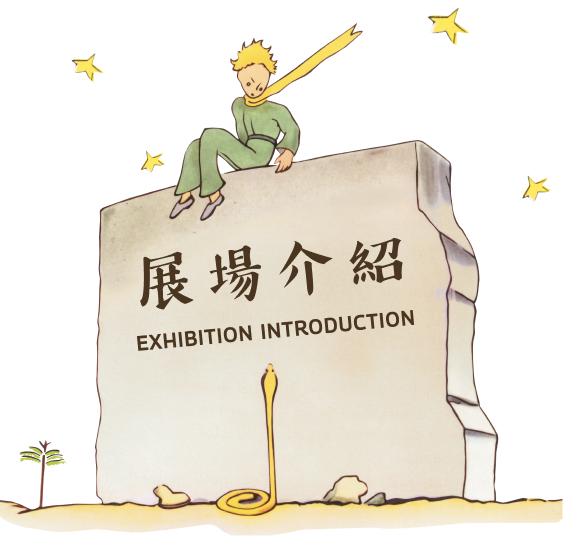
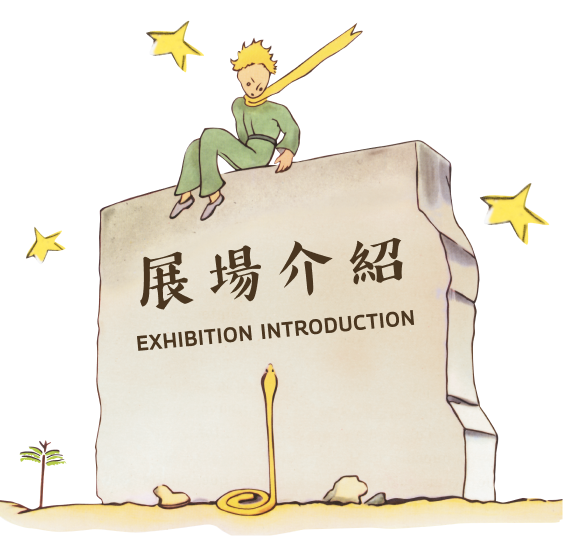
animate

diff --git a/pages/index.vue b/pages/index.vue
@@ -25,12 +25,18 @@
 
       <!-- 小王子的藝想世界 -->
       <boxContent class="index-prince" v-lazy:background-image="require('@/assets/img/index/prince-star.png')">
-        <div class="index-prince-bg"></div>
+        
         <div class="index-prince-man-box">
-          <img class="index-prince-man" v-lazy="require('@/assets/img/index/prince-blue.png')" alt="star">
+          <img class="index-prince-moon" v-lazy="require('@/assets/img/index/prince-moon.png')" alt="moon">
         </div>
-
+        
+        
+        <div class="index-prince-bg"></div>
+        <img class="index-prince-man" v-lazy="require('@/assets/img/index/prince-bird.png')" alt="bird">
         <img class="index-prince-title" v-lazy="require('@/assets/img/index/title-anniversary.png')" alt="anniversary">
+        <img class="index-prince-star1" v-lazy="require('@/assets/img/desktop/star.png')" alt="star">
+        <img class="index-prince-star2" v-lazy="require('@/assets/img/desktop/star.png')" alt="star">
+        <img class="index-prince-star3" v-lazy="require('@/assets/img/desktop/star.png')" alt="star">
         <div>
           <img class="index-prince-exhi" v-lazy="require('@/assets/img/index/prince-exhibition.png')" alt="exhibition">
         </div>
@@ -60,8 +66,15 @@
 
       <!-- 故事翻頁 -->
       <boxContent class="index-book">
-        <img class="index-book-bg" v-lazy="require('@/assets/img/index/book-bg.png')" alt="bg">
-        <img class="index-book-title" v-lazy="require('@/assets/img/index/title-prince.png')" alt="prince">
+        <img class="index-book-title"
+          data-aos="fade-in" data-aos-delay="100" data-aos-duration="800" data-aos-easing="ease-in-sine" v-lazy="require('@/assets/img/index/title-prince.png')"
+          alt="prince"
+        >
+        <div class="index-book-desc">
+          #尋找 找到你心中的小王子<br>
+          " All grown-ups were children first. (But few of them remember it.) "<br>
+          問題不在於長大，在於你忘了自己曾是個小孩。
+        </div>
         <!-- 缺文字 img -->
 
         <div class="index-book-rotate" v-lazy:background-image="require('@/assets/img/index/book-filp.png')">
@@ -99,7 +112,10 @@
       <boxContent class="index-art">
         <div class="index-art-head-box">
           <img class="index-art-head" v-lazy="require('@/assets/img/index/title-artist.png')" alt="artist">
-          <img class="index-art-intro" v-lazy="require('@/assets/img/index/art-intro.png')" alt="intro">
+          <img class="index-art-intro"
+            data-aos="fade-left" data-aos-delay="1200" data-aos-duration="800" data-aos-easing="ease-in-sine"
+            v-lazy="require('@/assets/img/index/art-intro.png')" alt="intro"
+          >
         </div>
         <div class="index-art-text">邀集國內外藝術家以全新視角詮釋，從視覺藝術到驚喜引導的故事人聲、量身定做的展場原聲音樂環繞，透過奇幻氛圍的劇場空間與沈浸式互動投影聯手，和小王子一起來趟暖心療癒的星球旅行吧！</div>
         <div class="index-art-rotate">
@@ -205,8 +221,14 @@
 
     <!-- 購票資訊 -->
       <boxContent class="index-ticket">
-        <img class="index-ticket-title" v-lazy="require('@/assets/img/index/title-buy.png')" alt="info">
-        <img class="index-ticket-airplane" v-lazy="require('@/assets/img/index/ticket-airplane.png')" alt="airplane">
+        <img class="index-ticket-title"
+          data-aos="fade-right" data-aos-delay="1200" data-aos-duration="800" data-aos-easing="ease-in-sine"
+          v-lazy="require('@/assets/img/index/title-buy.png')" alt="info"
+        >
+        <img
+          data-aos="fade-down-left" data-aos-delay="1200" data-aos-duration="800" data-aos-easing="ease-in-sine"
+          class="index-ticket-airplane" v-lazy="require('@/assets/img/index/ticket-airplane.png')" alt="airplane"
+        >
         <div class="index-ticket-sub">
           購票須知：<br>
           為能達成控管入場人流與最佳觀展品質，將於「開展前一個月」開訪提供參觀時段預約連結。於入場時配合防疫措施，完成實聯制並進行消毒雙手及測量體溫（現場將備有消毒酒精），並且記得參觀時應全程佩戴口罩喔！
@@ -280,7 +302,10 @@
 
       <!-- 小王子商店 -->
       <boxContent class="index-store">
-        <img class="index-store-tree" v-lazy="require('@/assets/img/index/store-tree.png')" alt="tree">
+        <img class="index-store-tree"
+          data-aos="fade-in" data-aos-delay="1200" data-aos-duration="800" data-aos-easing="ease-in-sine"
+          v-lazy="require('@/assets/img/index/store-tree.png')" alt="tree"
+          >
         <img class="index-store-title" v-lazy="require('@/assets/img/index/title-store.png')" alt="store">
 
         <div class="index-store-tab-box">
@@ -314,39 +339,40 @@
 
         <!-- footer -->
         <div class="index-footer">
-          <div class="index-footer-box">
-            <div>
-              <div class="index-footer-text">主辦單位｜為美學有限公司</div>
-              <div class="index-footer-text">協同策展｜群眾自造股份有限公司</div>
-              <div class="index-footer-text">授權單位｜薩摩亞商羚邦亞洲有限公司</div>
-            </div>
-            <div>
-              <div class="index-footer-text">行銷團隊｜大宇宙情報股份有限公司</div>
-              <div class="index-footer-text">行銷顧問｜貝殼放大股份有限公司</div>
-              <div class="index-footer-text">商品開發｜可蘿國際股份有限公司</div>
+
+          <div class="index-footer-outer-box">
+            <div class="index-footer-box">
+              <div>
+                <div class="index-footer-text">主辦單位｜為美學有限公司</div>
+                <div class="index-footer-text">協同策展｜群眾自造股份有限公司</div>
+                <div class="index-footer-text">授權單位｜薩摩亞商羚邦亞洲有限公司</div>
+              </div>
+              <div>
+                <div class="index-footer-text">行銷團隊｜大宇宙情報股份有限公司</div>
+                <div class="index-footer-text">行銷顧問｜貝殼放大股份有限公司</div>
+                <div class="index-footer-text">商品開發｜可蘿國際股份有限公司</div>
+              </div>
             </div>
 
+            <div class="index-footer-social-box">
+              <a href="https://www.facebook.com/LePetitPrince.75tw" target="facebook">
+                <img class="index-footer-social" v-lazy="require('@/assets/img/index/social-fb.png')" alt="sponsor">
+              </a>
+              <a href="https://www.instagram.com/le_petit_prince75th_tw" target="_blank">
+                <img class="index-footer-social" v-lazy="require('@/assets/img/index/social-ig.png')" alt="instagram">
+              </a>
+              <a href="mailto:service@weiyunchang.com" target="_blank">
+                <img class="index-footer-social" v-lazy="require('@/assets/img/index/social-email.png')" alt="mail">
+              </a>
+            </div>
           </div>
 
-          <div class="index-footer-social-box">
-            <a href="https://www.facebook.com/LePetitPrince.75tw" target="facebook">
-              <img class="index-footer-social" v-lazy="require('@/assets/img/index/social-fb.png')" alt="sponsor">
-            </a>
-            <a href="https://www.instagram.com/le_petit_prince75th_tw" target="_blank">
-              <img class="index-footer-social" v-lazy="require('@/assets/img/index/social-ig.png')" alt="instagram">
-            </a>
-            <a href="mailto:service@weiyunchang.com" target="_blank">
-              <img class="index-footer-social" v-lazy="require('@/assets/img/index/social-email.png')" alt="mail">
-            </a>
-            
-            
-            
+          <div class="index-footer-copyright">
+            <img class="index-footer-copyright-img" v-lazy="require('@/assets/img/index/copyright.png')" alt="copyright">
           </div>
-
-          <div class="index-footer-copyright">copyright</div>
-
 
         </div>
+        
 
 
       </boxContent>
@@ -404,7 +430,7 @@ export default {
       swiperOptionArt: {
         slidesPerView: 1,
         initialSlide: 1,
-        spaceBetween: -168,
+        spaceBetween: -138,
         lazy: true,
         pagination: {
           el: '.swiper-pagination',
@@ -842,10 +868,27 @@ export default {
 
     &-man-box {
       text-align: right;
-      padding-top: 30px;
+      padding: 232px 0px 50px;
+    }
+
+    &-moon {
+      width: 50%;
+    }
+
+    &-bg {
+      position: absolute;
+      left: 0px;
+      top: 0px;
+      width: 100%;
+      height: 232px;
+      background: linear-gradient(179.79deg, #281717 0.18%, rgba(40, 23, 23, 0.51) 66.61%, rgba(40, 23, 23, 0) 99.82%);
+      z-index: 2;
     }
 
     &-man {
+      position: absolute;
+      left: 20px;
+      top: 0px;
       width: 80%;
     }
 
@@ -855,6 +898,31 @@ export default {
       top: 0px;
       width: 230px;
       cursor: pointer;
+      z-index: 3;
+    }
+
+    &-star1 {
+      position: absolute;
+      right: 34px;
+      top: 40px;
+      width: 40px;
+      z-index: 2;
+    }
+
+    &-star2 {
+      position: absolute;
+      right: 34px;
+      top: 180px;
+      width: 40px;
+      z-index: 2;
+    }
+
+    &-star3 {
+      position: absolute;
+      right: 184px;
+      top: 180px;
+      width: 40px;
+      z-index: 2;
     }
 
     &-exhi {
@@ -863,6 +931,7 @@ export default {
       top: 150px;
       width: 95px;
       transform: translateY(-20px);
+      z-index: 3;
     }
 
     &-box {
@@ -881,7 +950,7 @@ export default {
 
     &-intro2 {
       width: 80px;
-      margin: 10px 0px 0px 20px;
+      margin: 72px 0px 0px 0px;
       cursor: pointer;
     }
 
@@ -946,14 +1015,16 @@ export default {
   &-book {
     position: relative;
 
-    &-bg {
-      position: absolute;
-      width: 240px;
-    }
-
     &-title {
       width: calc(100% - 20px);
       margin: 0px 10px;
+    }
+
+    &-desc {
+      margin: 0px 35px 21px;
+      line-height: 1.5;
+      font-size: 13px;
+      color: white;
     }
 
     &-rotate {
@@ -1591,37 +1662,45 @@ export default {
   // footer
 
   &-footer {
-    padding: 23px 15px 46px;
+    padding: 25px 31px 10px;
     background-color: #E8E1D1;
 
-    &-box {
+    &-outer-box {
       display: flex;
       justify-content: space-between;
+      align-items: center;
+    }
+
+    &-box {
+
     }
 
     &-text {
-      margin: 0px 5px 11px;
-      line-height: 1.5;
+      margin: 0px 0px 11px;
       font-size: 12px;
       text-align: left;
       color: #4D4D4D;
     }
 
     &-social-box {
-      padding: 0px 10px;
+      display: flex;
+      flex-direction: column;
       text-align: left;
     }
 
     &-social {
-      height: 17px;
-      margin-right: 8px;
-      cursor: pointer;
+      height: 21px;
+      margin: 7px 0px;
     }
 
     &-copyright {
-      margin-top: 12px;
+      margin-top: 10px;
       font-size: 12px;
       color: #9B9B9B;
+    }
+
+    &-copyright-img {
+      width: calc(100% - 40px);
     }
   }
 
@@ -1631,7 +1710,9 @@ export default {
   &-side {
     position: fixed;
     bottom: 5vh;
-    right: 10px;
+    right: 15px;
+    transform: none;
+    z-index: 1;
 
     &-box {
       width: 110px;
@@ -1815,7 +1896,14 @@ export default {
         display: none;
       }
     }
+
+    &-side {
+      left: calc(50% + 110px);
+      transform: translateX(-50%);
+    }
   }
+
+  
 
 }
 

diff --git a/nuxt.config.js b/nuxt.config.js
@@ -17,9 +17,12 @@ export default {
     meta: [
       { charset: 'utf-8' },
       { name: 'viewport', content: 'width=device-width, initial-scale=1' },
-      // { hid: 'og:image' , property: 'og:image' , content: 'icon-single-logo.png'},
+      { hid: 'og:title'  , property: 'og:title'  , content: '小王子的藝想世界 75 周年特展'},
+      { hid: 'og:image' , property: 'og:image' , content: 'og-logo.jpg'},
       { hid: 'og:type' , property: 'og:type' , content: 'website'},
-      { hid: 'description', name: 'description', content: '邀請喜愛小王子的鐵粉以及新朋友們一同家人全新展覽體驗；不再只是「看」展覽，而是跟著小王子穿越75個年頭，回到相遇的原點，一起展開星球旅行！請戴上登機手環與準備好一台互動的智慧型手機，即將於12.29～2022.4.6，在台北華山1914文創園區西一西二館啟程出發！' }
+      // { hid: 'og:url' , property: 'og:url' , content: ''},
+      { hid: 'description', name: 'description', content: '尋找 找到你心中的小王子" All grown-ups were children first. (But few of them remember it.) "問題不在於長大，在於你忘了自己曾是個小孩。' },
+      { hid: 'og:description' , property: 'og:description' , content: '尋找 找到你心中的小王子" All grown-ups were children first. (But few of them remember it.) "問題不在於長大，在於你忘了自己曾是個小孩。。'},
     ],
     link: [
       { rel: 'icon', type: 'image/x-icon', href: 'favicon.ico' }

diff --git a/layouts/default.vue b/layouts/default.vue
@@ -24,7 +24,14 @@ export default {
     }
   },
   mounted () {
-
+    // 點開手機版輸入框時，要避免畫面滑動
+    let mo = function (e) { e.preventDefault() }
+    document.body.style.overflowX='hidden'
+    document.addEventListener('touchmove', mo, false)
+    this.$nextTick(() => {
+      document.body.style.overflowX='hidden'
+      document.body.addEventListener('touchmove', mo, {passive:false})
+    })
   },
   computed: {
 
@@ -92,6 +99,7 @@ body {
   padding: 0px;
   font-family: 'Georama' ,'Noto Sans TC', 'Noto Sans SC', sans-serif;
   background-color: #f0f0f0;
+  overflow-x: hidden;
   // font-family: 'GoudyOldStyle,-apple-system,BlinkMacSystemFont,Segoe UI,Roboto,Helvetica,Arial,PingFang TC,Hiragino Sans GB,Microsoft JhengHei,sans-serif!important';
 }
 

diff --git a/pages/art.vue b/pages/art.vue
@@ -60,7 +60,7 @@ import VanillaTilt from 'vanilla-tilt';
 
 export default {
   head: {
-    title: '藝術家介紹',
+    title: '小王子的藝想世界 75 周年特展',
   },
   layout: 'default',
   components: {
